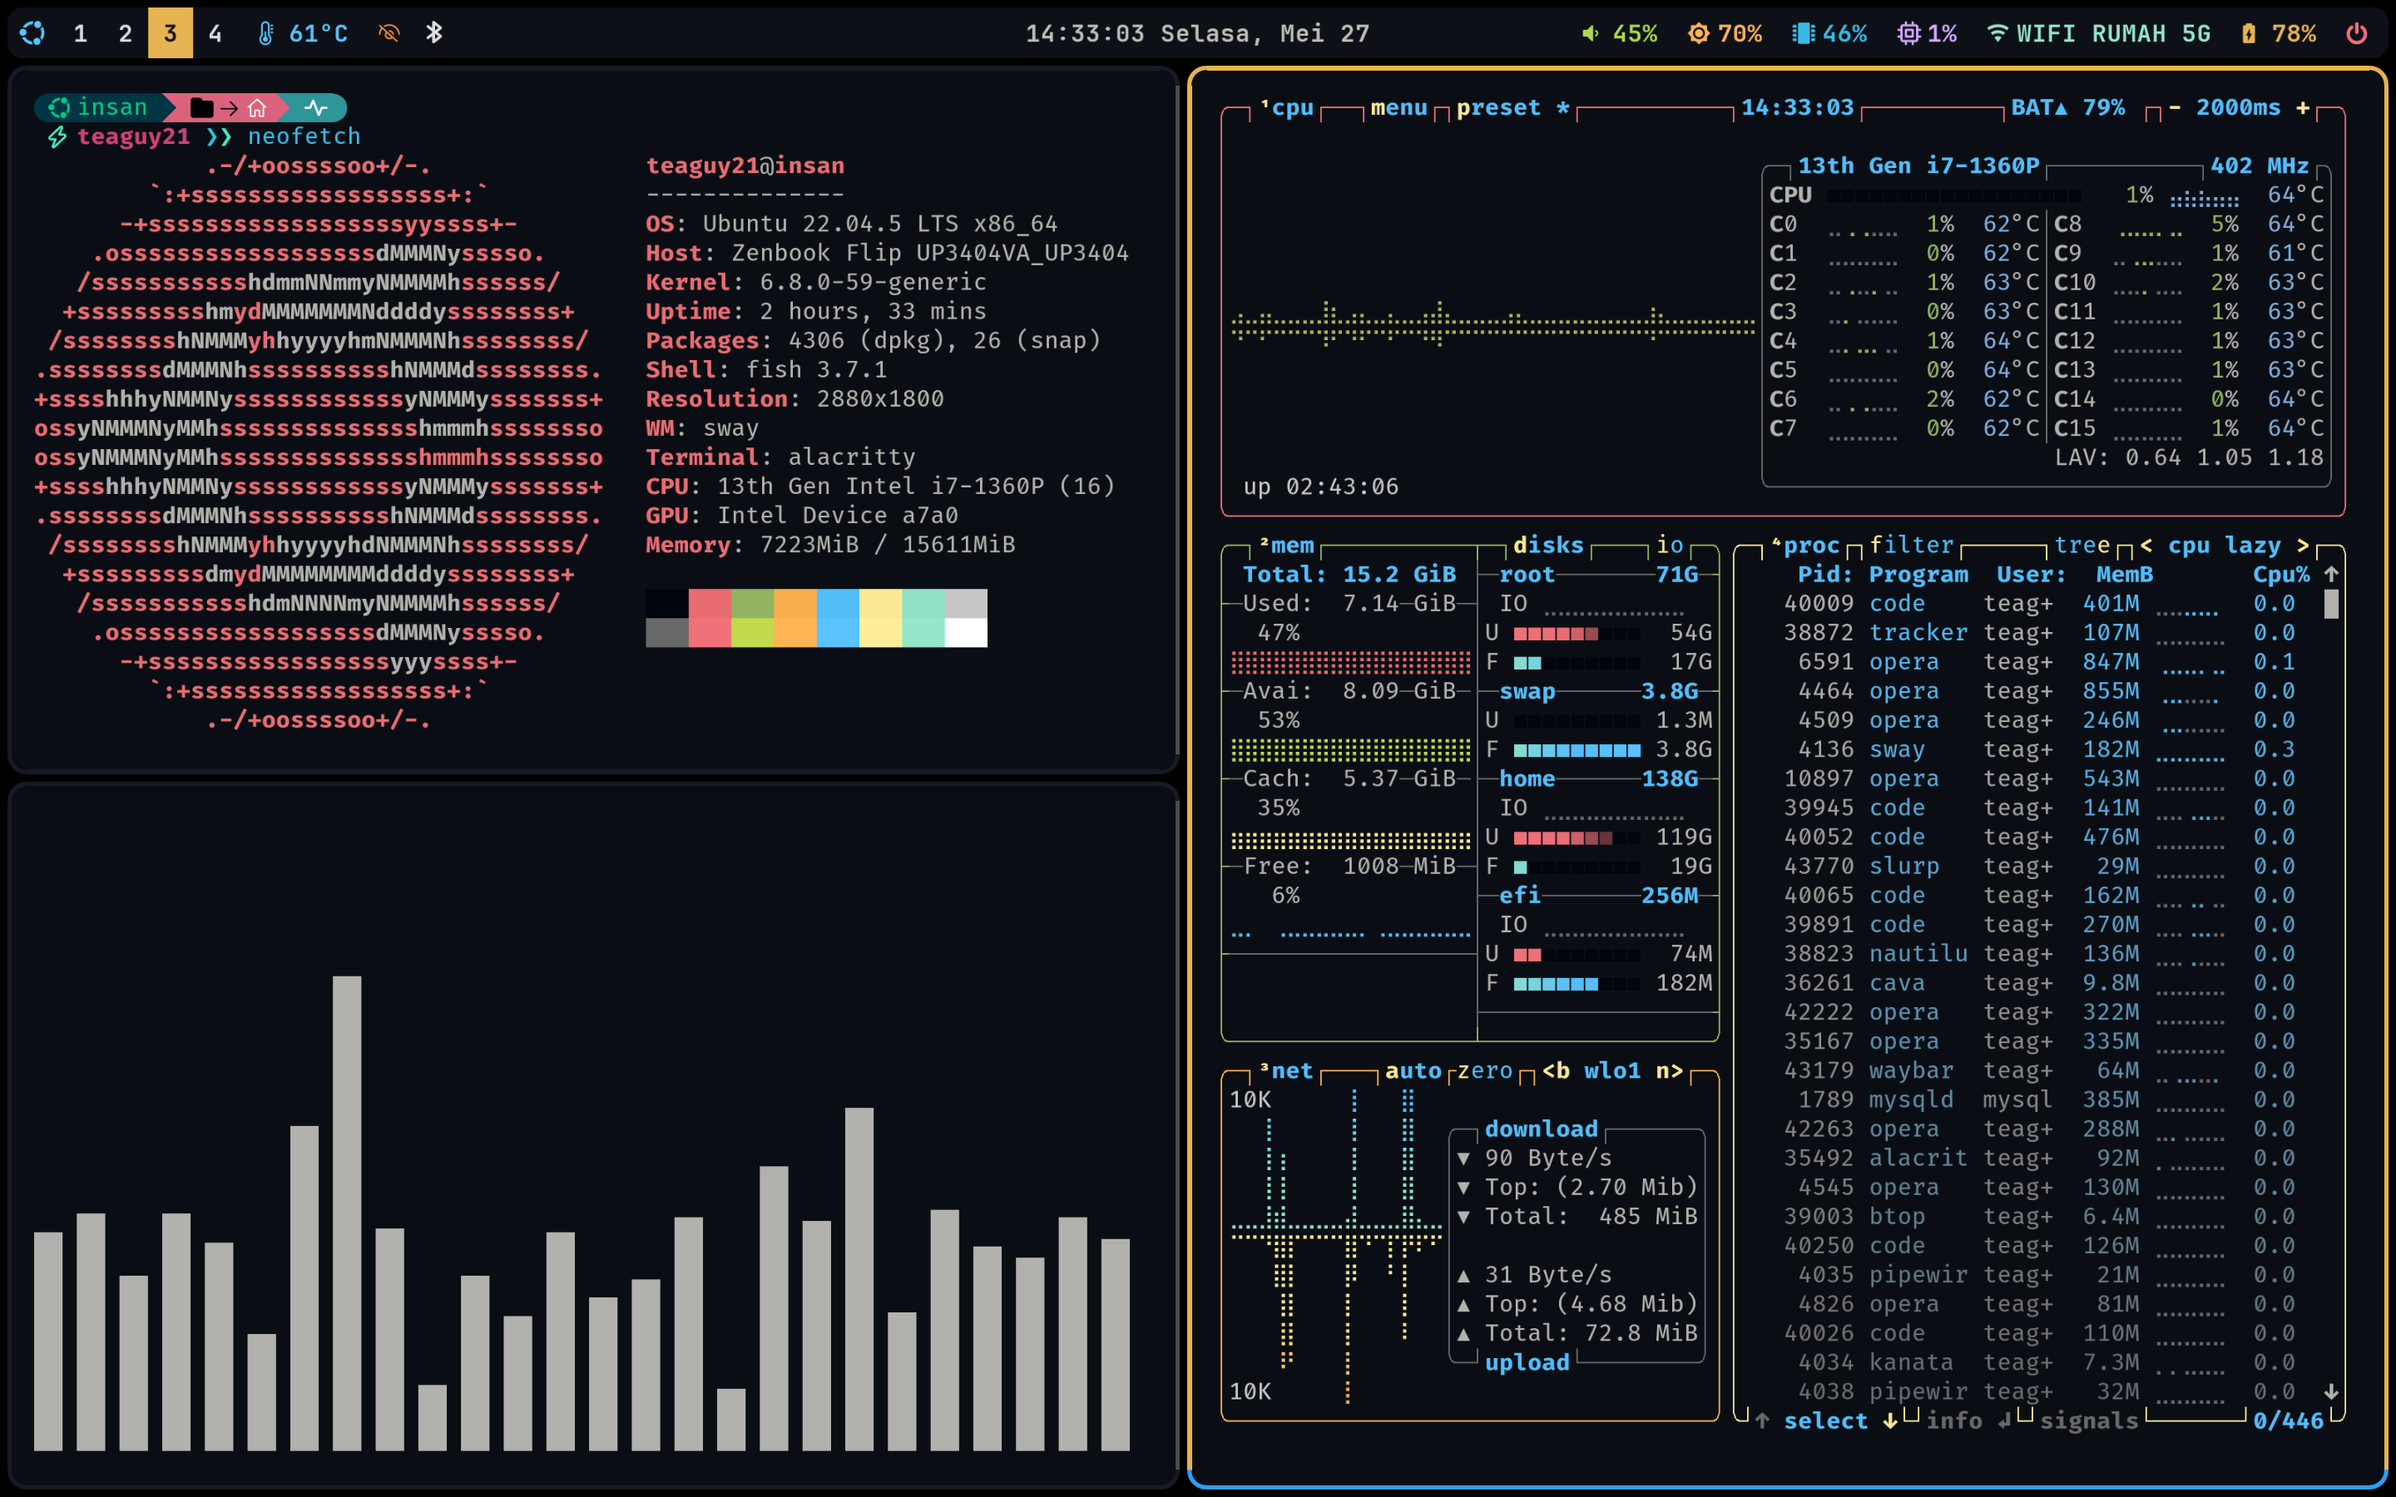
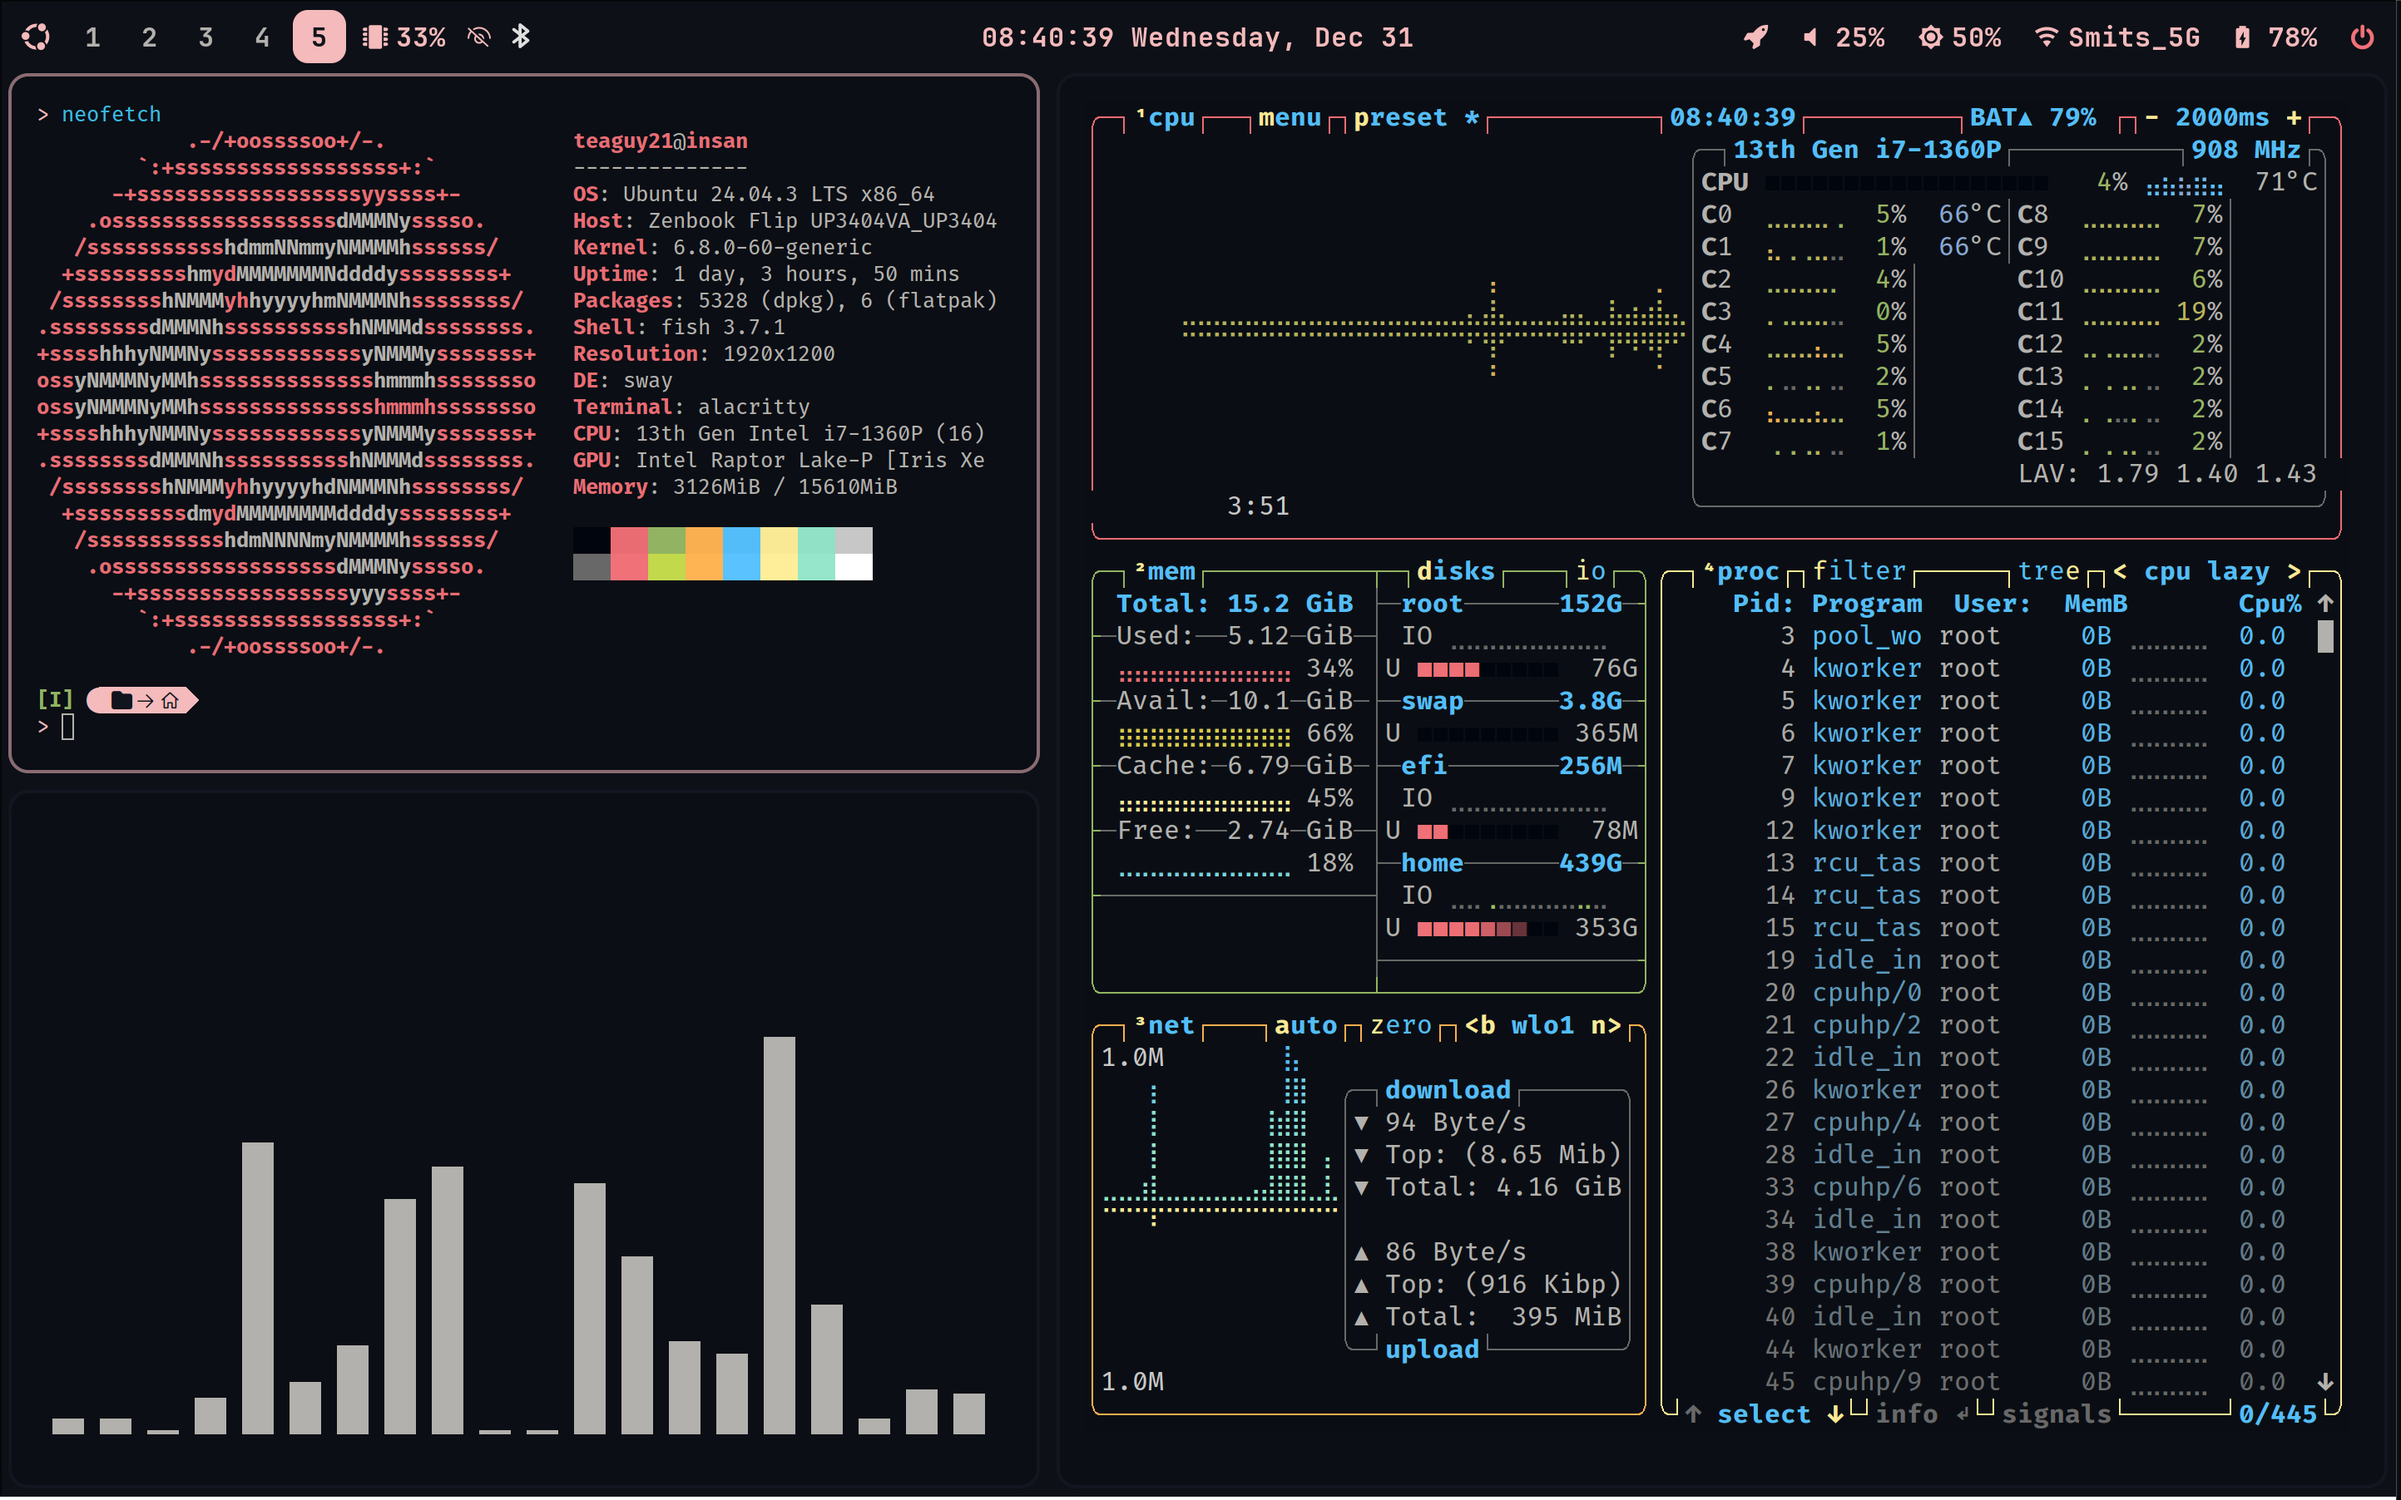
feat: update Hyprland configuration for workspace assignments and persistent settings; modify exec command for workspace creation; enhance README with detailed application descriptions and dependencies

Changed region(s): [[0.0, 0.0, 1.0, 1.0], [0.5938, 0.1867, 0.625, 0.2489]]

diff --git a/README.md b/README.md
@@ -33,21 +33,48 @@ A dotfile is a hidden configuration file that starts with a dot (.) and is used 
 ## 📁 Content
 
 ### Folders
-- **`.fonts`** - Custom fonts
 - **`.config`** - Application configurations  
+- **`.local/share`** - User data (fonts, icons, file manager extensions)
 - **`.themes`** - GTK themes
 - **`.poshthemes`** - PowerShell themes
 
 ### Applications
-- **Sway** - Wayland compositor
+
+**Window Managers & Compositors**
+- **Sway** - Wayland tiling compositor
+- **Hyprland** - Dynamic tiling Wayland compositor
+- **i3** - X11 tiling window manager
+
+**Status Bars & System Info**
 - **Waybar** - Status bar for Wayland
-- **Alacritty** - Terminal emulator
-- **Ghostty** - Terminal emulator
+- **Polybar** - Status bar for X11
+- **Btop** - System monitor
+
+**Terminals**
+- **Alacritty** - GPU-accelerated terminal emulator
+- **Ghostty** - Fast terminal emulator
+
+**Application Launchers & Menus**
+- **Wofi** - Wayland application launcher
+- **Rofi** - X11 application launcher
+
+**Shell & Tools**
 - **Fish** - Friendly interactive shell
 - **Neovim** - Text editor
-- **Kanata** - Key remapping
-- **Btop** - System monitor
+- **Kanata** - Key remapping tool
+- **Fusuma** - Touchpad gesture recognizer
+
+**Wayland Utilities**
+- **Mako** - Notification daemon
+- **Swaylock** - Screen locker
+- **Swww** - Wallpaper daemon
+- **Wob** - Volume/brightness overlay bar
+- **xdg-desktop-portal** - Desktop integration portal
+
+**Other**
 - **Systemd** - System services
+- **GTK** - GTK 3.0 & 4.0 theming
+- **Nemo** - File manager extensions
 
 ### Themes
 - **Ayu dark (customized)**
@@ -73,11 +100,19 @@ Ensure you have the following dependencies installed on your system:
 ### Optional Dependencies
 | Package         | Description                        | Installation Command                                           |
 | --------------- | ---------------------------------- | -------------------------------------------------------------- |
+| **Hyprland**    | Alternative compositor             | [Build from GitHub](https://github.com/hyprwm/Hyprland)        |
+| **i3**          | X11 window manager                 | `sudo apt install i3`                                          |
 | **Ghostty**     | Alternative terminal               | [Download from GitHub](https://github.com/ghostty-org/ghostty) |
 | **Btop**        | System monitor                     | `sudo apt install btop`                                        |
 | **Wofi**        | Application launcher               | `sudo apt install wofi`                                        |
+| **Rofi**        | X11 application launcher           | `sudo apt install rofi`                                        |
+| **Polybar**     | X11 status bar                     | [Build from GitHub](https://github.com/polybar/polybar)        |
 | **Mako**        | Notification daemon                | `sudo apt install mako-notifier`                               |
+| **Swaylock**    | Screen locker                      | `sudo apt install swaylock`                                    |
+| **Swww**        | Wallpaper daemon                   | [Build from GitHub](https://github.com/LGFae/swww)             |
+| **Wob**         | Overlay bar                        | `sudo apt install wob`                                         |
 | **Fusuma**      | Touchpad gestures                  | `sudo gem install fusuma`                                      |
+| **Kanata**      | Key remapping                      | [Download from GitHub](https://github.com/jtroo/kanata)        |
 | **kde-connect** | Multiplatform device communication | [Install from source](https://github.com/KDE/kdeconnect-kde)   |
 
 ## 🚀 Installation
@@ -104,11 +139,14 @@ After installation, your dotfiles will be symlinked to their appropriate locatio
 - **Sync changes** by running `git pull` in the dotfiles directory
 
 ### Key Features
-- 🎨 **Ayu Dark theme** across all applications
-- ⚡ **Optimized Sway configuration** with custom keybindings
-- 🔧 **Custom Waybar** with network menu and system monitoring
-- 📝 **Configured terminals** (Alacritty & Ghostty) with matching themes
-- 🎛 **Dynamic gap adjustment** shortcuts for Sway
+- 🎨 **Consistent theming** with Ayu Dark and Catppuccin across all applications
+- ⚡ **Multiple WM/compositor configs** - Sway, Hyprland, and i3 ready to use
+- 🔧 **Custom status bars** - Waybar for Wayland, Polybar for X11
+- 📝 **Dual terminal setup** - Alacritty & Ghostty with matching themes
+- 🚀 **Wayland-first workflow** with Mako, Wofi, Swaylock, and Swww
+- 🎛 **Enhanced input handling** - Kanata key remapping and Fusuma gestures
+- 🖱 **GTK theming** for consistent application appearance
+- 📦 **Systemd services** for automatic startup configurations
 
 ## 📄 License
 
@@ -118,7 +156,6 @@ This project is licensed under the GPL-3.0 license - see the [LICENSE](LICENSE) 
 ## Credit 
 I also used other resources for my dotfiles:
 1. [Ayu-dark theme, by K4zoku](https://github.com/K4zoku/dotfiles/tree/a486fb6d612db309e0dfc9123fb2ffcf9213db21)
-2. 
 
 ---
 
